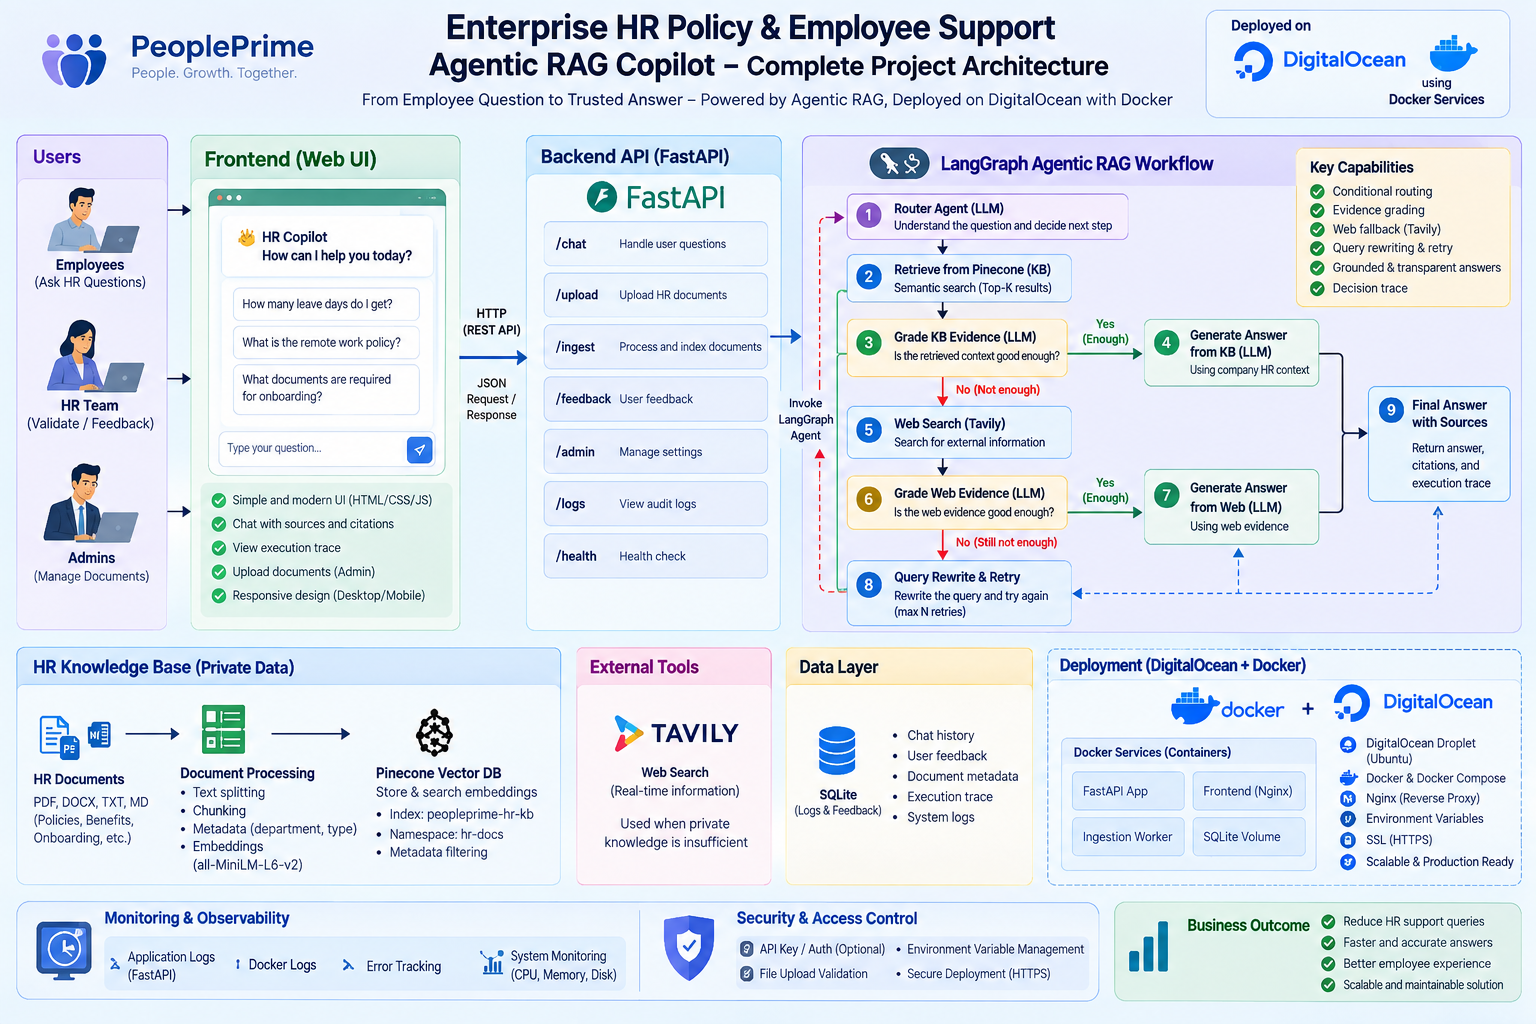
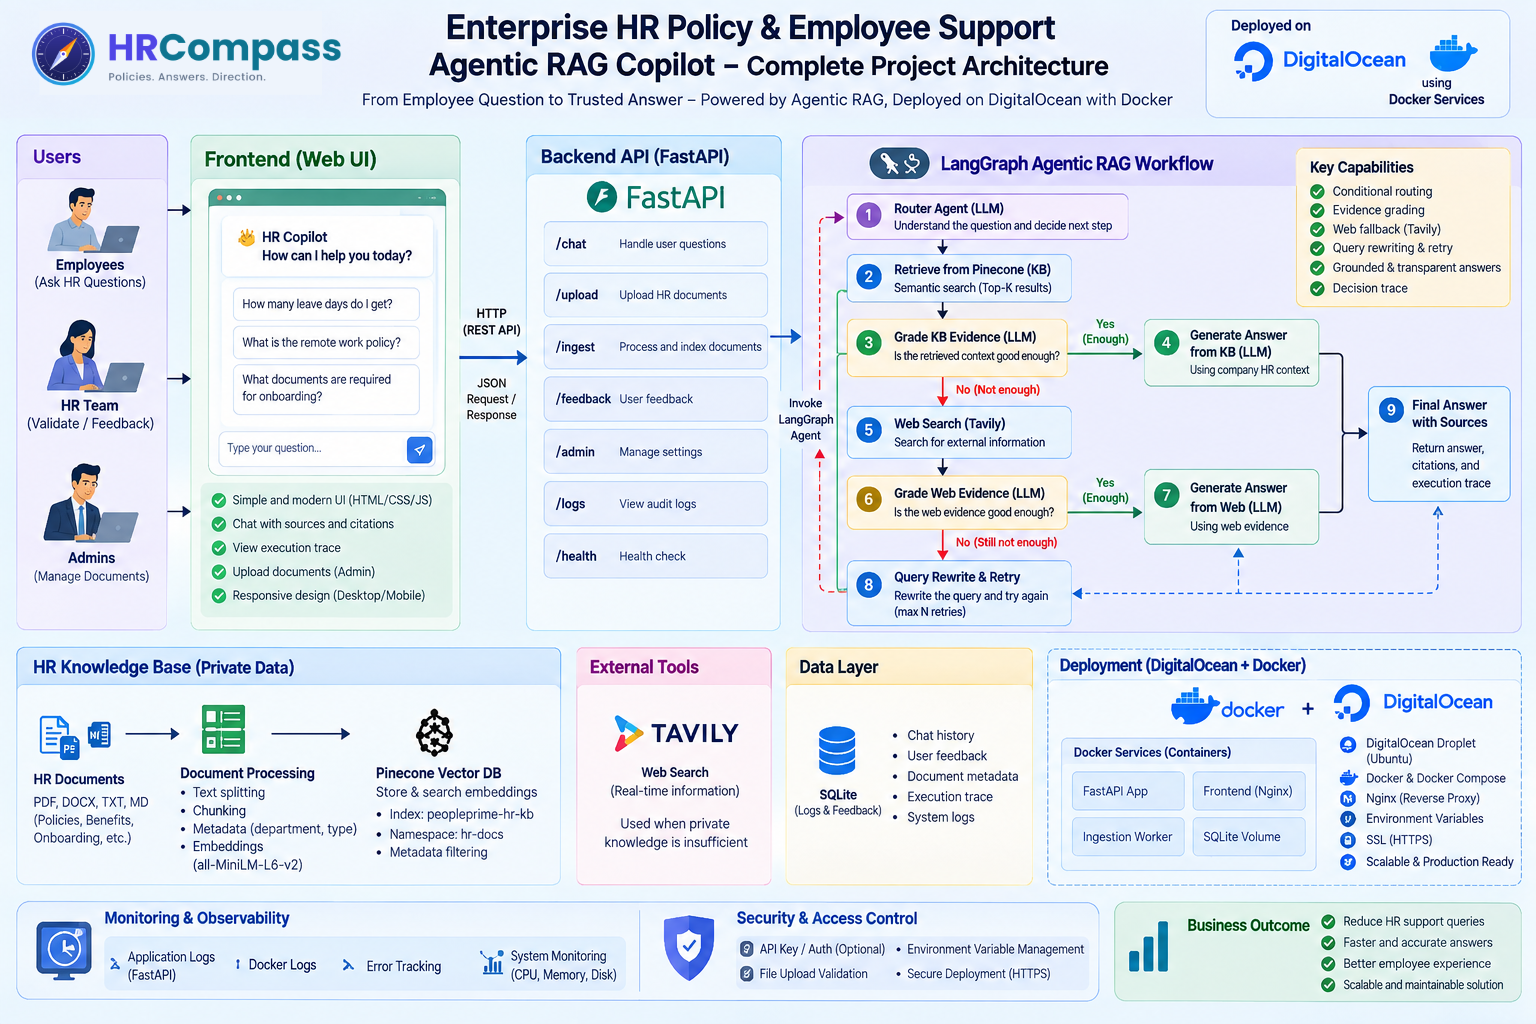
add ingestion functionality with document handling

Changed region(s): [[0.0, 0.0, 0.2188, 0.0938]]

diff --git a/app/rag/vectorstore.py b/app/rag/vectorstore.py
@@ -1,0 +1,103 @@
+import time
+from pinecone import Pinecone, ServerlessSpec
+from langchain_huggingface import HuggingFaceEmbeddings
+from langchain_pinecone import PineconeVectorStore
+from app.core.config import get_settings
+
+settings = get_settings()
+
+
+_embeddings = None
+_vectorstore = None
+
+
+EMBEDDING_DIMENSIONS = {
+    "text-embedding-3-small": 1536,
+    "text-embedding-3-large": 3072,
+    "text-embedding-ada-002": 1536,
+    "all-minilm-l6-v2": 384,
+    "sentence-transformers/all-minilm-l6-v2": 384,
+}
+
+
+def get_embedding_dimension(model_name: str | None = None) -> int:
+    name = (model_name or settings.embedding_model or "").strip()
+    if not name:
+        raise RuntimeError("Embedding model is not configured")
+    normalized = name.lower()
+    if normalized in EMBEDDING_DIMENSIONS:
+        return EMBEDDING_DIMENSIONS[normalized]
+    if "text-embedding-3-small" in normalized:
+        return 1536
+    if "text-embedding-3-large" in normalized:
+        return 3072
+    if "text-embedding-ada-002" in normalized:
+        return 1536
+    if "all-minilm" in normalized:
+        return 384
+    raise ValueError(
+        f"Unsupported embedding model '{model_name or settings.embedding_model}' for Pinecone. "
+        "Add the matching dimension to EMBEDDING_DIMENSIONS."
+    )
+
+
+def get_embeddings():
+    global _embeddings
+    if _embeddings is None:
+        # Local model: no API key needed. Downloaded once on first run, then cached.
+        _embeddings = HuggingFaceEmbeddings(
+            model_name=settings.embedding_model,
+            model_kwargs={"device": "cpu"},
+            encode_kwargs={"normalize_embeddings": True},
+        )
+    return _embeddings
+
+
+def ensure_index():
+    if not settings.pinecone_api_key:
+        raise RuntimeError("PINECONE_API_KEY is missing")
+    desired_dimension = get_embedding_dimension()
+    pc = Pinecone(api_key=settings.pinecone_api_key)
+    names = [x["name"] for x in pc.list_indexes()]
+
+    if settings.pinecone_index_name in names:
+        index_info = pc.describe_index(settings.pinecone_index_name)
+        current_dimension = getattr(index_info, "dimension", None)
+        if current_dimension is None and isinstance(index_info, dict):
+            current_dimension = index_info.get("dimension")
+        if current_dimension is not None and current_dimension != desired_dimension:
+            pc.delete_index(name=settings.pinecone_index_name)
+            while settings.pinecone_index_name in [x["name"] for x in pc.list_indexes()]:
+                time.sleep(1)
+    if settings.pinecone_index_name not in [x["name"] for x in pc.list_indexes()]:
+        pc.create_index(
+            name=settings.pinecone_index_name,
+            dimension=desired_dimension,
+            metric="cosine",
+            spec=ServerlessSpec(cloud="aws", region="us-east-1"),
+        )
+        while not pc.describe_index(settings.pinecone_index_name).status["ready"]:
+            time.sleep(1)
+
+    return pc.Index(settings.pinecone_index_name)
+
+
+def get_vectorstore():
+    global _vectorstore
+    if _vectorstore is None:
+        index = ensure_index()
+        _vectorstore = PineconeVectorStore(
+            index=index,
+            embedding=get_embeddings(),
+            namespace=settings.pinecone_namespace,
+        )
+    return _vectorstore
+
+
+def get_retriever():
+    return get_vectorstore().as_retriever(search_kwargs={"k": settings.top_k})
+
+
+def add_documents(chunks):
+    store = get_vectorstore()
+    return store.add_documents(chunks)

diff --git a/app/services/ingestion.py b/app/services/ingestion.py
@@ -1,0 +1,28 @@
+from pathlib import Path
+from typing import Iterable
+from langchain_core.documents import Document
+from langchain_text_splitters import RecursiveCharacterTextSplitter
+from langchain_community.document_loaders import PyPDFLoader, TextLoader
+from docx import Document as DocxDocument
+
+
+SUPPORTED = {".pdf", ".txt", ".md", ".docx"}
+
+
+def load_file(path: Path) -> list[Document]:
+    suffix = path.suffix.lower()
+    if suffix == ".pdf":
+        return PyPDFLoader(str(path)).load()
+    if suffix in {".txt", ".md"}:
+        return TextLoader(str(path), encoding="utf-8").load()
+    if suffix == ".docx":
+        doc = DocxDocument(str(path))
+        text = "\n".join(p.text for p in doc.paragraphs if p.text.strip())
+        return [Document(page_content=text, metadata={"source": str(path)})]
+    raise ValueError(f"Unsupported file type: {suffix}")
+
+
+
+def chunk_documents(docs: Iterable[Document]) -> list[Document]:
+    splitter = RecursiveCharacterTextSplitter(chunk_size=900, chunk_overlap=120, add_start_index=True)
+    return splitter.split_documents(list(docs))

diff --git a/test.py b/test.py
@@ -1,6 +1,13 @@
-from app.core.config import get_settings
+# from app.core.config import get_settings
 
-settings = get_settings()
+# settings = get_settings()
 
-print(f"App Name: {settings.app_name}")
-print(f"App Env: {settings.tavily_api_key}")
+# print(f"App Name: {settings.app_name}")
+# print(f"App Env: {settings.tavily_api_key}")
+from app.services.ingestion import load_file, chunk_documents
+from pathlib import Path
+
+docs = load_file(Path("data/sample_kb/company_hr_handbook.md"))
+chunked_docs = chunk_documents(docs)
+
+print(chunked_docs)

diff --git a/ingest_sample_kb.py b/ingest_sample_kb.py
@@ -1,0 +1,18 @@
+from pathlib import Path
+from app.core.config import get_settings
+from app.services.ingestion import load_file, chunk_documents
+from app.rag.vectorstore import add_documents
+
+
+settings = get_settings()
+
+folder = Path(settings.sample_kb_dir)
+files = [p for p in folder.iterdir() if p.is_file()]
+
+
+all_docs = []
+for path in files:
+    all_docs.extend(load_file(path))
+chunks = chunk_documents(all_docs)
+ids = add_documents(chunks)
+print(f"Indexed {len(files)} files -> {len(chunks)} chunks -> {len(ids)} Pinecone vectors")

diff --git a/data/sample_kb/company_hr_handbook.md b/data/sample_kb/company_hr_handbook.md
@@ -1,0 +1,22 @@
+# HRCompass Technologies Internal HR Handbook
+
+## Annual Leave
+Full-time employees receive 20 days of paid annual leave per calendar year. Leave requests should normally be submitted through the HR portal at least 5 working days before the planned leave date. Manager approval is required. Unused leave may be carried forward up to 5 days into the next calendar year and must be used by March 31 unless HR grants an exception.
+
+## Sick Leave
+Employees may take up to 10 paid sick days per calendar year. For absences longer than 2 consecutive working days, HR may request appropriate medical documentation. Employees should notify their manager as early as possible on the first day of absence.
+
+## Remote Work Policy
+Eligible employees may work remotely up to 2 days per week with manager approval. Employees must remain reachable during agreed working hours, use company-approved collaboration tools, and protect confidential information. Remote work is not a substitute for dependent-care arrangements during working hours.
+
+## Working Hours and Attendance
+Standard working hours are 9:00 AM to 6:00 PM, Monday through Friday, with a 1-hour meal break. Teams may use approved flexible schedules if business coverage is maintained. Repeated unapproved absence or lateness should be discussed with the manager and may be escalated to HR.
+
+## Payroll
+Monthly salary is normally paid on the final business day of each month. Employees should review their payslip in the HR portal. Payroll discrepancies should be reported to Payroll Support within 5 business days of receiving the payslip.
+
+## Benefits
+Eligible full-time employees receive the company medical plan, life insurance coverage, and access to the employee assistance program. Enrollment changes outside the annual enrollment window require a qualifying life event and supporting documentation.
+
+## Code of Conduct
+Employees are expected to maintain a respectful, professional, and harassment-free workplace. Discrimination, retaliation, bullying, or harassment should be reported to a manager, HR, or the confidential ethics channel. Retaliation against employees who raise concerns in good faith is prohibited.

diff --git a/data/sample_kb/hr_operations_runbook.md b/data/sample_kb/hr_operations_runbook.md
@@ -1,0 +1,16 @@
+# HR Operations Runbook
+
+## New Employee Onboarding
+HR should confirm the signed offer, identity and payroll documentation, manager assignment, start date, and required policy acknowledgements before the employee begins. On the first day, provide access to the HR portal, benefits information, mandatory training, and the employee handbook.
+
+## Leave Request Support
+If an employee cannot submit leave through the HR portal, first verify that the employee has an active profile and sufficient leave balance. If the portal is unavailable, record the request by email and ask the manager to confirm approval. HR should update the HR system after service is restored.
+
+## Payroll Issue Priority
+P1: multiple employees are missing salary or there is a major payroll processing failure. P2: an individual employee has not received salary. P3: incorrect allowance, deduction, tax, or benefits line item. P4: general payslip or payroll information request.
+
+## Employee Record Changes
+Changes to legal name, bank details, emergency contact, or home address must be submitted through the HR portal with required supporting documents where applicable. Bank-detail changes should be verified before the next payroll cutoff.
+
+## Offboarding
+For a planned departure, HR should confirm the final working day, manager handover, return of company assets, benefit termination timing, final payroll inputs, and required exit documentation. Access-removal requests should be coordinated with IT and the manager according to the employee's final working day.

diff --git a/README.md b/README.md
@@ -1,4 +1,4 @@
-# PeoplePrime HR Copilot — Enterprise HR Policy & Employee Support Agentic RAG
+# HRCompass HR Copilot — Enterprise HR Policy & Employee Support Agentic RAG
 
 An end-to-end Forward Deployed Engineer (FDE) project that turns an Agentic RAG workflow into a deployable internal HR product using **LangGraph, FastAPI, Pinecone, Groq, Tavily, HTML/CSS/JavaScript**, packaged with **Docker** and deployed on **DigitalOcean**.
 
@@ -9,7 +9,7 @@ An end-to-end Forward Deployed Engineer (FDE) project that turns an Agentic RAG 
 ## 1. Business Problem
 
 ### Customer
-**PeoplePrime**, a fictional 3,000-employee retail company.
+**HRCompass**, a fictional 3,000-employee retail company.
 
 ### Problem
 The HR team maintains many internal documents: leave policies, remote-work rules, payroll guidance, benefits information, onboarding procedures, conduct policies, and HR operations runbooks.
@@ -156,7 +156,7 @@ flowchart TD
 ## 7. Project Structure
 
 ```text
-PeoplePrime-HR-Policy-Agentic-RAG-Copilot/
+HRCompass-HR-Policy-Agentic-RAG-Copilot/
 ├── app/
 │   ├── api/routes.py
 │   ├── core/config.py
